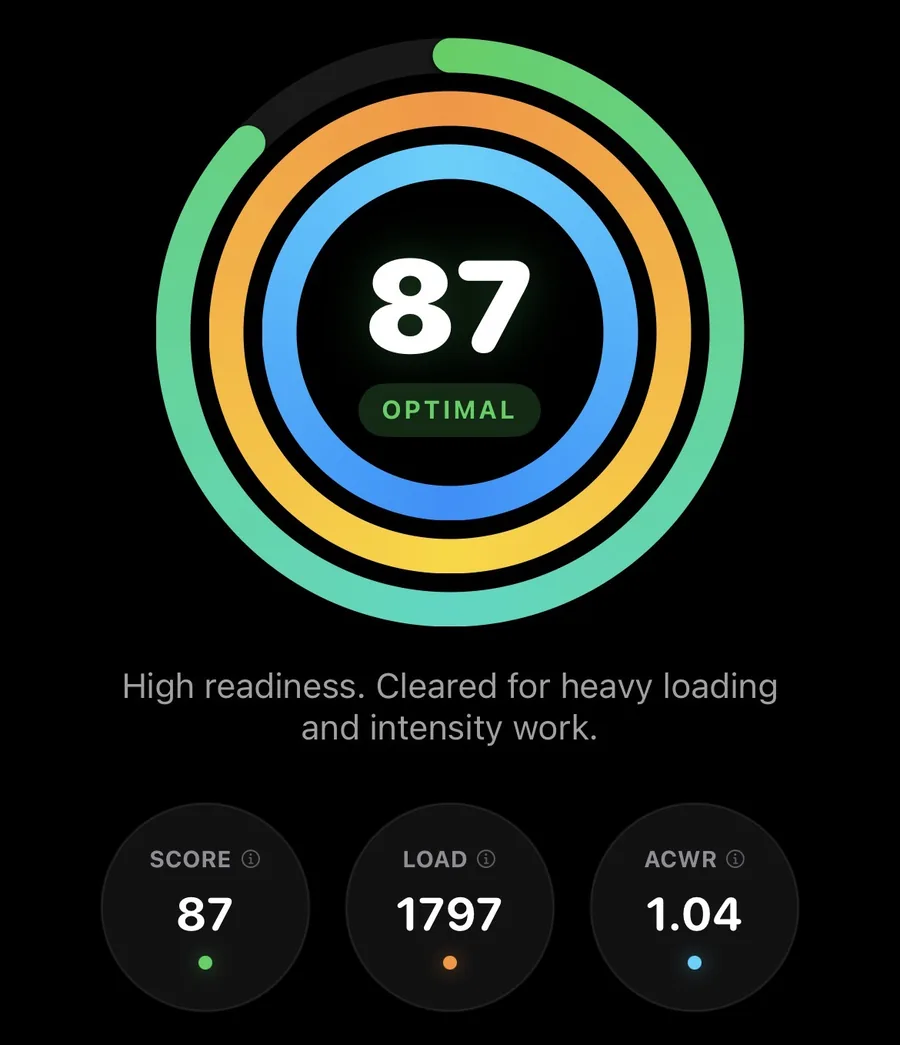
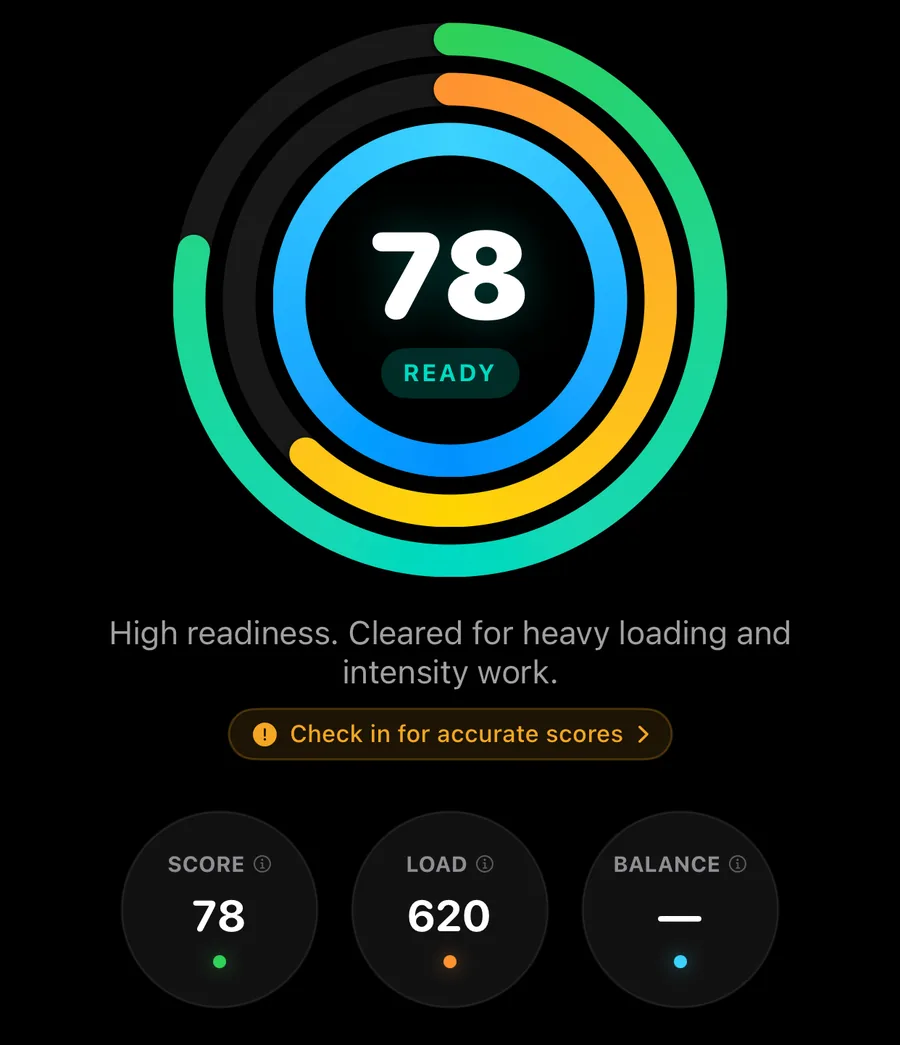
Put the v1.2 rings in the screenshots, and cut the readiness section down (#22)
* Cut the readiness section down to the page's own length

It ran 433 words against a page median of 105, so the one feature people
arrive at the page to read was also the one that looked like homework. Now
230, inside the range the other long sections already occupy.

Four things had to survive the cut: what the score is made of, what the three
rings mean, the disclaimer that none of it diagnoses or predicts an injury,
and the single acute:chronic workload ratio mention the rest of the site now
leans on for that metric. Everything else was said twice or said at length:
the injury log keeps its "records what happened, does not attribute a cause",
the Apple Health paragraph drops to its one claim (the FAQ covers the detail),
and the ACWR note drops the argument for its own framing and keeps the
framing.

Side effect worth having: the copy column is now 681px against a 536px phone,
so the section reads as two columns rather than a page of text with a screen
parked beside its first paragraph.

Claude-Session: https://claude.ai/code/session_011a5tLMg3rJrs79nJGaprcu

* Put the v1.2 rings in the screenshots

readiness.webp and screen-readiness.webp both showed the pre-v1.2 rings with
an ACWR gauge, on pages that now explain why the rings are not built on that
ratio. Both are rebuilt from one 1242x2688 capture: the full screen scaled to
900x1948 for the features page, and the region from just above the rings to
[…]

diff --git a/features/index.html b/features/index.html
@@ -222,19 +222,16 @@
     <div class="reveal">
       <p class="eyebrow">Daily readiness</p>
       <h2>One number. Every morning.</h2>
-      <p class="body-copy mt-3">Readiness answers one question: how recovered are you today. It comes from your morning check-in (energy, soreness, life stress), your HRV and your sleep, each compared against your own rolling baseline, and it outputs a score from 0 to 100. Training volume is deliberately not in it. How much work you did is a separate question, and it gets its own ring.</p>
-      <p class="body-copy mt-2">Three rings sit around it, and each one answers a different question. The outer ring is the score: how your body responded. The middle ring is dose: how much you actually did, against your own recent peak week. The inner ring is balance: it reads full while every system you train sits near its own baseline, and drains when one of them spikes, naming the system that is running hot. A rest day leaves it full, because resting is not a failure state.</p>
-      <p class="body-copy mt-2">The score isn't a vanity stat. Sensei uses it to decide what to recommend, Training Camp uses it to adjust the next block, Fight Week uses it to flag overreaching during the cut. You see it once each morning; the rest of the app silently uses it everywhere.</p>
-      <p class="body-copy mt-2">There is an injury log alongside it. Record a niggle with the date and the area, and it sits on the same timeline as your load, so when you look back at a flare-up you can see what the fortnight before it contained. It records what happened. It does not attribute a cause.</p>
-      <p class="body-copy mt-2">Apple Health sync runs both ways: Versus reads HRV, sleep and resting heart rate, and writes your sessions back so the rest of your Health data stays complete.</p>
-      <p class="body-copy mt-2">It is an estimate, and worth saying plainly: it is built from what your watch measured overnight and how you answered a few questions before breakfast, so it is a guide for how to train today, not a verdict on your body. The rings alongside it show how much you did and how far that sits from your normal. None of the three diagnoses an injury or predicts one, and Versus is a training log, not a medical device.</p>
-      <p class="body-copy mt-2">The workload chart also carries the classic research metric, the acute:chronic workload ratio, for anyone who wants it. Treat it as context from the training literature rather than an injury predictor, and note that it is not what the rings are built on: the research since 2020 has been unkind to the idea that any single ratio can tell you who is about to get hurt, so the rings compare your training to your own baseline instead.</p>
+      <p class="body-copy mt-3">Readiness answers one question: how recovered are you today. It comes from your morning check-in (energy, soreness, life stress), your HRV and your sleep, each against your own rolling baseline, and lands as a score from 0 to 100. Training volume is deliberately not in it. That is a separate question, and it gets its own ring.</p>
+      <p class="body-copy mt-2">Three rings carry it. Score is how your body responded. Dose is how much you did, against your own recent peak week. Balance holds full while every system you train sits near its baseline and drains when one spikes, naming the one running hot. A rest day leaves it full, because resting is not a failure state.</p>
+      <p class="body-copy mt-2">Sensei, Training Camp and Fight Week all read the score, so you see it once each morning and the rest of the app uses it everywhere. An injury log sits on the same timeline as your load, recording what happened without attributing a cause. Apple Health sync runs both ways.</p>
+      <p class="body-copy mt-2">It is an estimate, not a verdict on your body. None of the three rings diagnoses an injury or predicts one, and Versus is a training log, not a medical device. The workload chart also carries the acute:chronic workload ratio for anyone who wants it, kept as research context rather than an injury predictor.</p>
       <p class="body-copy mt-2">Free tier. Every user, every day.</p>
     </div>
     <div class="hero-visual reveal">
       <div class="phone">
         <div class="phone-screen has-img">
-          <img loading="lazy" decoding="async" class="phone-shot" src="/assets/screens/screen-readiness.webp" alt="Versus Training Daily Readiness home screen: score 69 marked Moderate, surrounded by three rings tracking Score, Load and ACWR, with the Speak Your Session prompt above and a 7-day trend at the bottom."/>
+          <img loading="lazy" decoding="async" class="phone-shot" src="/assets/screens/screen-readiness.webp" alt="Versus Training Daily Readiness home screen: score 78 marked Ready, surrounded by three rings tracking Score, Load and Balance. The Speak Your Session prompt sits above, a prompt to check in for accurate scores below, then Score 78, Load 620 and Balance with no value yet, and a 7-day trend at the bottom."/>
         </div>
       </div>
     </div>

diff --git a/src/pages/features.html b/src/pages/features.html
@@ -189,19 +189,16 @@
     <div class="reveal">
       <p class="eyebrow">Daily readiness</p>
       <h2>One number. Every morning.</h2>
-      <p class="body-copy mt-3">Readiness answers one question: how recovered are you today. It comes from your morning check-in (energy, soreness, life stress), your HRV and your sleep, each compared against your own rolling baseline, and it outputs a score from 0 to 100. Training volume is deliberately not in it. How much work you did is a separate question, and it gets its own ring.</p>
-      <p class="body-copy mt-2">Three rings sit around it, and each one answers a different question. The outer ring is the score: how your body responded. The middle ring is dose: how much you actually did, against your own recent peak week. The inner ring is balance: it reads full while every system you train sits near its own baseline, and drains when one of them spikes, naming the system that is running hot. A rest day leaves it full, because resting is not a failure state.</p>
-      <p class="body-copy mt-2">The score isn't a vanity stat. Sensei uses it to decide what to recommend, Training Camp uses it to adjust the next block, Fight Week uses it to flag overreaching during the cut. You see it once each morning; the rest of the app silently uses it everywhere.</p>
-      <p class="body-copy mt-2">There is an injury log alongside it. Record a niggle with the date and the area, and it sits on the same timeline as your load, so when you look back at a flare-up you can see what the fortnight before it contained. It records what happened. It does not attribute a cause.</p>
-      <p class="body-copy mt-2">Apple Health sync runs both ways: Versus reads HRV, sleep and resting heart rate, and writes your sessions back so the rest of your Health data stays complete.</p>
-      <p class="body-copy mt-2">It is an estimate, and worth saying plainly: it is built from what your watch measured overnight and how you answered a few questions before breakfast, so it is a guide for how to train today, not a verdict on your body. The rings alongside it show how much you did and how far that sits from your normal. None of the three diagnoses an injury or predicts one, and Versus is a training log, not a medical device.</p>
-      <p class="body-copy mt-2">The workload chart also carries the classic research metric, the acute:chronic workload ratio, for anyone who wants it. Treat it as context from the training literature rather than an injury predictor, and note that it is not what the rings are built on: the research since 2020 has been unkind to the idea that any single ratio can tell you who is about to get hurt, so the rings compare your training to your own baseline instead.</p>
+      <p class="body-copy mt-3">Readiness answers one question: how recovered are you today. It comes from your morning check-in (energy, soreness, life stress), your HRV and your sleep, each against your own rolling baseline, and lands as a score from 0 to 100. Training volume is deliberately not in it. That is a separate question, and it gets its own ring.</p>
+      <p class="body-copy mt-2">Three rings carry it. Score is how your body responded. Dose is how much you did, against your own recent peak week. Balance holds full while every system you train sits near its baseline and drains when one spikes, naming the one running hot. A rest day leaves it full, because resting is not a failure state.</p>
+      <p class="body-copy mt-2">Sensei, Training Camp and Fight Week all read the score, so you see it once each morning and the rest of the app uses it everywhere. An injury log sits on the same timeline as your load, recording what happened without attributing a cause. Apple Health sync runs both ways.</p>
+      <p class="body-copy mt-2">It is an estimate, not a verdict on your body. None of the three rings diagnoses an injury or predicts one, and Versus is a training log, not a medical device. The workload chart also carries the acute:chronic workload ratio for anyone who wants it, kept as research context rather than an injury predictor.</p>
       <p class="body-copy mt-2">Free tier. Every user, every day.</p>
     </div>
     <div class="hero-visual reveal">
       <div class="phone">
         <div class="phone-screen has-img">
-          <img loading="lazy" decoding="async" class="phone-shot" src="/assets/screens/screen-readiness.webp" alt="Versus Training Daily Readiness home screen: score 69 marked Moderate, surrounded by three rings tracking Score, Load and ACWR, with the Speak Your Session prompt above and a 7-day trend at the bottom."/>
+          <img loading="lazy" decoding="async" class="phone-shot" src="/assets/screens/screen-readiness.webp" alt="Versus Training Daily Readiness home screen: score 78 marked Ready, surrounded by three rings tracking Score, Load and Balance. The Speak Your Session prompt sits above, a prompt to check in for accurate scores below, then Score 78, Load 620 and Balance with no value yet, and a 7-day trend at the bottom."/>
         </div>
       </div>
     </div>

diff --git a/index.html b/index.html
@@ -174,9 +174,9 @@
       </figure>
       <figure class="proof-item">
         <div class="phone"><div class="phone-screen has-img">
-          <img loading="lazy" decoding="async" class="phone-shot" src="/assets/screens/readiness.webp" alt="Versus Training Daily Readiness card: score 87 marked Optimal, surrounded by three concentric rings tracking Score, Load and ACWR. Description reads: High readiness. Cleared for heavy loading and intensity work. Below the rings: Score 87, Load 1797, ACWR 1.04."/>
+          <img loading="lazy" decoding="async" class="phone-shot" src="/assets/screens/readiness.webp" alt="Versus Training Daily Readiness card: score 78 marked Ready, surrounded by three concentric rings tracking Score, Load and Balance. Description reads: High readiness. Cleared for heavy loading and intensity work. A prompt below it offers to check in for accurate scores. Below the rings: Score 78, Load 620, and Balance with no value yet."/>
         </div></div>
-        <figcaption><span class="step-num">02 / KNOW IT</span>Next morning: 87, Optimal. Load 1797. "Cleared for heavy loading and intensity work." One number, and the reason for it.</figcaption>
+        <figcaption><span class="step-num">02 / KNOW IT</span>Next morning: 78, Ready. Load 620. "Cleared for heavy loading and intensity work." One number, and the reason for it.</figcaption>
       </figure>
       <figure class="proof-item">
         <div class="phone"><div class="phone-screen has-img">

diff --git a/src/pages/index.html b/src/pages/index.html
@@ -141,9 +141,9 @@
       </figure>
       <figure class="proof-item">
         <div class="phone"><div class="phone-screen has-img">
-          <img loading="lazy" decoding="async" class="phone-shot" src="/assets/screens/readiness.webp" alt="Versus Training Daily Readiness card: score 87 marked Optimal, surrounded by three concentric rings tracking Score, Load and ACWR. Description reads: High readiness. Cleared for heavy loading and intensity work. Below the rings: Score 87, Load 1797, ACWR 1.04."/>
+          <img loading="lazy" decoding="async" class="phone-shot" src="/assets/screens/readiness.webp" alt="Versus Training Daily Readiness card: score 78 marked Ready, surrounded by three concentric rings tracking Score, Load and Balance. Description reads: High readiness. Cleared for heavy loading and intensity work. A prompt below it offers to check in for accurate scores. Below the rings: Score 78, Load 620, and Balance with no value yet."/>
         </div></div>
-        <figcaption><span class="step-num">02 / KNOW IT</span>Next morning: 87, Optimal. Load 1797. "Cleared for heavy loading and intensity work." One number, and the reason for it.</figcaption>
+        <figcaption><span class="step-num">02 / KNOW IT</span>Next morning: 78, Ready. Load 620. "Cleared for heavy loading and intensity work." One number, and the reason for it.</figcaption>
       </figure>
       <figure class="proof-item">
         <div class="phone"><div class="phone-screen has-img">

diff --git a/sports/index.html b/sports/index.html
@@ -145,7 +145,7 @@
     <div class="hero-visual reveal">
       <div class="phone">
         <div class="phone-screen has-img">
-          <img decoding="async" class="phone-shot" src="/assets/screens/readiness.webp" alt="Versus Training Daily Readiness card: score 87 marked Optimal, surrounded by three concentric rings tracking Score, Load and ACWR. Description: High readiness. Cleared for heavy loading and intensity work. Below: Score 87, Load 1797, ACWR 1.04."/>
+          <img decoding="async" class="phone-shot" src="/assets/screens/readiness.webp" alt="Versus Training Daily Readiness card: score 78 marked Ready, surrounded by three concentric rings tracking Score, Load and Balance. Description: High readiness. Cleared for heavy loading and intensity work. Below: Score 78, Load 620, and Balance with no value yet."/>
         </div>
       </div>
     </div>

diff --git a/src/pages/sports.html b/src/pages/sports.html
@@ -112,7 +112,7 @@
     <div class="hero-visual reveal">
       <div class="phone">
         <div class="phone-screen has-img">
-          <img decoding="async" class="phone-shot" src="/assets/screens/readiness.webp" alt="Versus Training Daily Readiness card: score 87 marked Optimal, surrounded by three concentric rings tracking Score, Load and ACWR. Description: High readiness. Cleared for heavy loading and intensity work. Below: Score 87, Load 1797, ACWR 1.04."/>
+          <img decoding="async" class="phone-shot" src="/assets/screens/readiness.webp" alt="Versus Training Daily Readiness card: score 78 marked Ready, surrounded by three concentric rings tracking Score, Load and Balance. Description: High readiness. Cleared for heavy loading and intensity work. Below: Score 78, Load 620, and Balance with no value yet."/>
         </div>
       </div>
     </div>

diff --git a/CLAUDE.md b/CLAUDE.md
@@ -94,19 +94,24 @@ methodology papers took apart, and own-baseline deviation is the part that
 survived. Do not put a number of check-in questions or a baseline window in
 the copy either, unless you have just checked it against the app.
 
-**Still owed: screenshots.** These four images predate v1.2 and show the old
-ring set, so the pages currently illustrate a UI that no longer exists. Their
-alt text describes what is in the image and is therefore correct as long as
-the old image is there. Replace the image and the alt together:
+**Still owed: two screenshots.** These predate v1.2 and show the old ring set.
+Alt text describes what is in the image, so it is correct as long as the old
+image is there. Replace the image and the alt together:
 
-- `assets/screens/readiness.webp`, used on `index.html` (with a figcaption
-  quoting Score 87 / Load 1797) and on `sports.html`.
-- `assets/screens/screen-readiness.webp` on `features.html`, alt naming the
-  Score/Load/ACWR rings.
 - `assets/screens/screen-watch-readiness.webp` on `features.html`, alt calling
-  the inner ring blue. Balance renders cyan.
+  the inner ring blue. On the phone, Balance renders blue, so that wording is
+  probably right; check it against the new capture rather than assuming.
 - `assets/screens/screen-dashboard.webp` on `features.html`, whose alt quotes
   an on-screen callout saying the readiness score adapts to load. It no
   longer does.
+
+Done: `readiness.webp` (900x1045, home/sports/fighters) and
+`screen-readiness.webp` (900x1948, features) were rebuilt from a v1.2 capture.
+Both come from one 1242x2688 screenshot; `readiness.webp` is the region from
+just above the rings to just below the stat bubbles, cropped to the same
+aspect the old file used so the framing did not change. That capture has no
+check-in behind it, so Balance reads as a dash and a "check in for accurate
+scores" prompt sits under the rings. The alt text says so. If a populated
+capture turns up later, both files and all three alts want redoing together.
 
 The v1.0 changelog entry naming ACWR is a historical record. Leave it.
